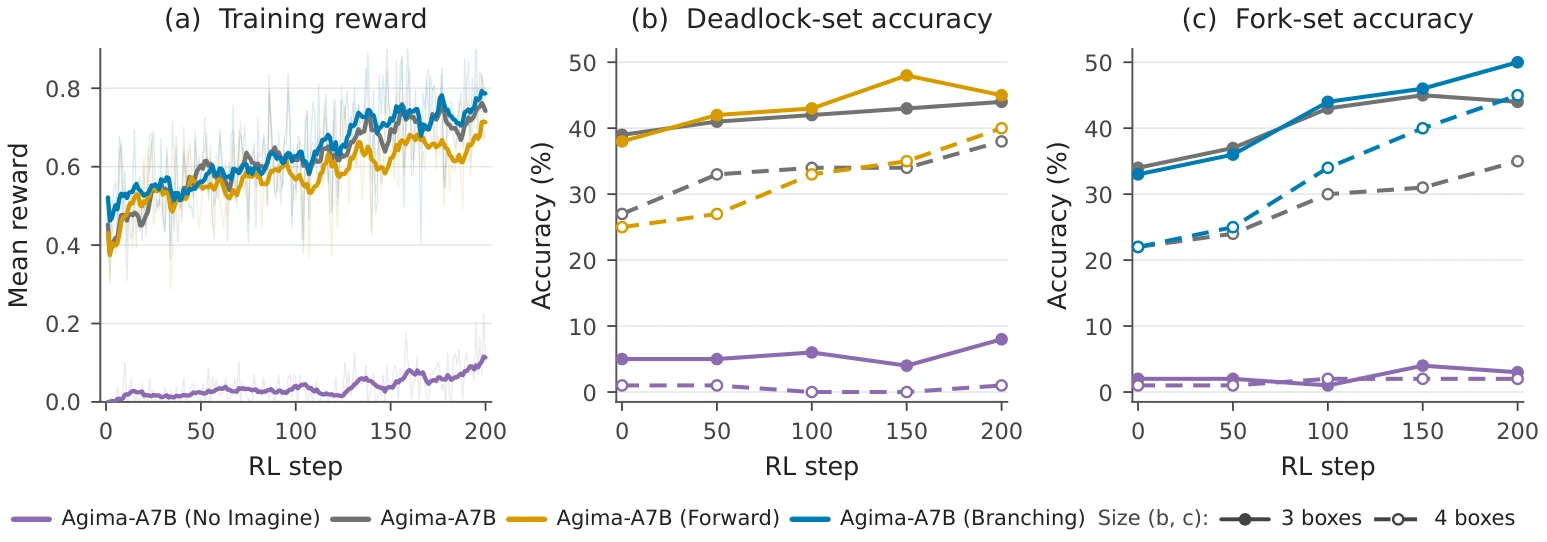
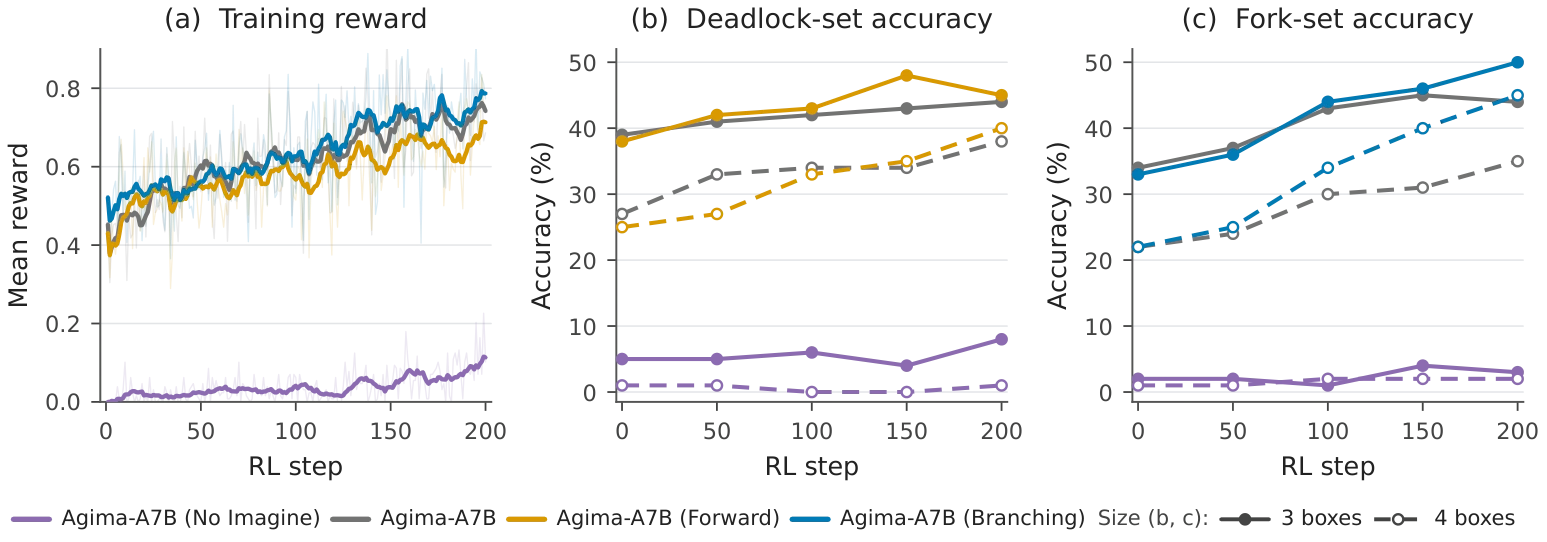
Animate environments and rollout explorer; match RL chart backgrounds
Environments now show ground-truth train and test rollouts as GIFs for all
four tasks. The rollout explorer plays the paper's appendix episodes as
GIFs, imagined frames beside the ground truth, pausing when a real frame
arrives at each chunk boundary. RL charts get transparent backgrounds,
and the forward-thinking highlight now covers the shared o_{t+1} frame.

diff --git a/index.html b/index.html
@@ -179,12 +179,42 @@
         <div class="section-heading">
           <p class="eyebrow">Setup</p>
           <h2>Environments</h2>
-          <p>Four tasks with different dynamics. Agima trains on the easier setting and is tested on a harder one.</p>
+          <p>Four tasks with different dynamics. Agima trains on the easier setting (left) and is tested on a harder one it never saw (right). Each clip is a real environment rollout.</p>
         </div>
-        <figure class="wide-figure">
-          <img src="assets/images/fig2_environments_rollout.webp" width="2400" height="1239" loading="lazy" alt="Training and test states for Maze2D, Sokoban, Pacman and PushT, and an imagined Pacman rollout.">
-          <figcaption>(a) Training and test states: Maze2D mazes grow, Sokoban goes from two to four boxes, Pacman moves to 12×12 grids with more food, and PushT starts farther from the center. (b) Agima interleaves actions and predicted states, then executes the actions.</figcaption>
-        </figure>
+        <div class="env-grid">
+          <article class="env-card">
+            <h3>Maze2D</h3>
+            <p>Navigate to the red goal around walls.</p>
+            <div class="env-pair">
+              <figure><img src="assets/gifs/env/maze2d_train.gif" width="256" height="282" loading="lazy" alt="Maze2D training episode, ground-truth rollout."><figcaption>Train: 11×11 maze</figcaption></figure>
+              <figure><img src="assets/gifs/env/maze2d_test.gif" width="256" height="282" loading="lazy" alt="Maze2D test episode, ground-truth rollout."><figcaption>Test: larger maze</figcaption></figure>
+            </div>
+          </article>
+          <article class="env-card">
+            <h3>Sokoban</h3>
+            <p>Push every box onto a goal; a wrong push can be permanent.</p>
+            <div class="env-pair">
+              <figure><img src="assets/gifs/env/sokoban_train.gif" width="256" height="282" loading="lazy" alt="Sokoban training episode, ground-truth rollout."><figcaption>Train: two boxes</figcaption></figure>
+              <figure><img src="assets/gifs/env/sokoban_test.gif" width="256" height="282" loading="lazy" alt="Sokoban test episode, ground-truth rollout."><figcaption>Test: four boxes</figcaption></figure>
+            </div>
+          </article>
+          <article class="env-card">
+            <h3>Pacman</h3>
+            <p>Eat all food while a ghost chases after every move.</p>
+            <div class="env-pair">
+              <figure><img src="assets/gifs/env/pacman_train.gif" width="256" height="282" loading="lazy" alt="Pacman training episode, ground-truth rollout."><figcaption>Train: 9×9, 8 food</figcaption></figure>
+              <figure><img src="assets/gifs/env/pacman_test.gif" width="256" height="282" loading="lazy" alt="Pacman test episode, ground-truth rollout."><figcaption>Test: 12×12, 12 food, closer ghost</figcaption></figure>
+            </div>
+          </article>
+          <article class="env-card">
+            <h3>PushT</h3>
+            <p>Push the gray T onto the green target with continuous moves.</p>
+            <div class="env-pair">
+              <figure><img src="assets/gifs/env/pusht_train.gif" width="256" height="282" loading="lazy" alt="PushT training episode, ground-truth rollout."><figcaption>Train: starts near the center</figcaption></figure>
+              <figure><img src="assets/gifs/env/pusht_test.gif" width="256" height="282" loading="lazy" alt="PushT test episode, ground-truth rollout."><figcaption>Test: starts far from the center</figcaption></figure>
+            </div>
+          </article>
+        </div>
         <div class="k-explainer">
           <h3>Action chunks K</h3>
           <p>K is how many actions Agima commits before it sees the real board again. In between, it plans from its own imagined frames. K = 1 is fully reactive; K = ∞ imagines the whole episode from a single frame.</p>
@@ -308,7 +338,7 @@
             <h3>RL improves held-out planning</h3>
             <p>Every imagination-based model improves, including on four-box puzzles never seen during RL. The action-only model raises its training reward but stays near zero on the test sets.</p>
           </div>
-          <figure><img src="assets/images/fig4_rl_curves.webp" width="1547" height="542" loading="lazy" alt="RL training reward and held-out accuracy for four initializations."><figcaption>(a) Training reward. (b–c) Accuracy on Deadlock and Structural Fork; solid lines are three-box and dashed lines four-box.</figcaption></figure>
+          <figure><img class="chart-img" src="assets/images/fig4_rl_curves.webp" width="1547" height="542" loading="lazy" alt="RL training reward and held-out accuracy for four initializations."><figcaption>(a) Training reward. (b–c) Accuracy on Deadlock and Structural Fork; solid lines are three-box and dashed lines four-box.</figcaption></figure>
         </div>
         <div class="analysis-row">
           <div class="analysis-copy">
@@ -324,7 +354,7 @@
             <h3>Branching moves to critical decisions</h3>
             <p>Agima opens more branches per plan and places more of them where a single push would make the puzzle unsolvable.</p>
           </div>
-          <figure><img src="assets/images/fig6_adaptive_reasoning.webp" width="1921" height="507" loading="lazy" alt="Adaptive use of imagination across RL checkpoints."><figcaption>Forward thinking becomes failure-triggered; branching targets critical steps.</figcaption></figure>
+          <figure><img class="chart-img" src="assets/images/fig6_adaptive_reasoning.webp" width="1921" height="507" loading="lazy" alt="Adaptive use of imagination across RL checkpoints."><figcaption>Forward thinking becomes failure-triggered; branching targets critical steps.</figcaption></figure>
         </div>
       </div>
     </section>
@@ -334,7 +364,7 @@
         <div class="section-heading">
           <p class="eyebrow">Explorer</p>
           <h2>Rollout Explorer</h2>
-          <p>Full trajectories for every environment and K. A real frame arrives every K actions; the rest are imagined.</p>
+          <p>Agima on the hard test sets, from the paper's appendix episodes. Left is what Agima sees: its own imagined frames, until a real frame arrives every K actions (the pause). Right is the true environment at the same step.</p>
         </div>
         <div id="rollout-explorer"></div>
       </div>

diff --git a/assets/js/main.js b/assets/js/main.js
@@ -88,13 +88,6 @@
       ]
     }
   };
-  // Rollout explorer: pages rendered from the appendix trajectory figures.
-  var ROLLOUTS = {
-    maze2d: {label: "Maze2D", k: {"1": [["maze2d_k1_1", "0-17"]], "3": [["maze2d_k3_2", "0-15"], ["maze2d_k3_3", "15-27"]], "5": [["maze2d_k5_4", "0-23"]], "10": [["maze2d_k10_5", "0-21"]], "inf": [["maze2d_kinf_6", "0-13"]]}},
-    sokoban: {label: "Sokoban", k: {"1": [["sokoban_k1_1", "0-21"]], "3": [["sokoban_k3_2", "0-21"]], "5": [["sokoban_k5_3", "0-19"]], "10": [["sokoban_k10_4", "0-19"]], "inf": [["sokoban_kinf_5", "0-17"]]}},
-    pacman: {label: "Pacman", k: {"1": [["pacman_k1_1", "0-33"]], "3": [["pacman_k3_2", "0-20"], ["pacman_k3_3", "20-33"]], "5": [["pacman_k5_4", "0-20"], ["pacman_k5_5", "20-33"]], "10": [["pacman_k10_6", "0-20"], ["pacman_k10_7", "20-35"]], "inf": [["pacman_kinf_8", "0-15"], ["pacman_kinf_9", "15-27"]]}},
-    pusht: {label: "PushT", k: {"1": [["pusht_k1_1", "0-19"]], "3": [["pusht_k3_2", "0-18"]], "5": [["pusht_k5_3", "0-15"], ["pusht_k5_4", "15-27"]], "10": [["pusht_k10_5", "0-20"]], "inf": [["pusht_kinf_6", "0-15"], ["pusht_kinf_7", "15-28"]]}}
-  };
   var KLABEL = {"1": "1", "3": "3", "5": "5", "10": "10", "inf": "∞"};
   var FIG = "assets/images/";
 
@@ -212,26 +205,25 @@
     root.appendChild(grid);
   }
 
-  /* ---------- 3. rollout explorer ---------- */
+  /* ---------- 3. rollout explorer: one GIF per environment and K ---------- */
+  var EXPLORER_ENVS = [["maze2d", "Maze2D"], ["sokoban", "Sokoban"], ["pacman", "Pacman"], ["pusht", "PushT"]];
   function renderExplorer(root) {
     var state = {env: "sokoban", k: "5"};
     var controls = el("div", {class: "chart-controls explorer-controls"});
     root.appendChild(controls);
-    segmented(controls, "Environment", Object.keys(ROLLOUTS).map(function (e) { return [e, ROLLOUTS[e].label]; }), state.env, function (v) { state.env = v; draw(); });
+    segmented(controls, "Environment", EXPLORER_ENVS, state.env, function (v) { state.env = v; draw(); });
     segmented(controls, "Explorer K", [["1", "K = 1"], ["3", "K = 3"], ["5", "K = 5"], ["10", "K = 10"], ["inf", "K = ∞"]], state.k, function (v) { state.k = v; draw(); });
     var caption = el("p", {class: "chart-note"});
-    var frame = el("div", {class: "explorer-frame"});
-    root.appendChild(caption); root.appendChild(frame);
+    var img = el("img", {class: "explorer-gif", width: "530", height: "332", alt: ""});
+    root.appendChild(caption); root.appendChild(el("div", {class: "explorer-frame"}, [img]));
     function draw() {
-      var pages = ROLLOUTS[state.env].k[state.k];
-      var first = pages[0][1].split("-")[0], last = pages[pages.length - 1][1].split("-")[1];
-      caption.textContent = ROLLOUTS[state.env].label + ", K = " + KLABEL[state.k] + ": steps " + first + "–" + last +
-        (state.k === "1" ? ". Real observation after every action." : state.k === "inf" ? ". One real observation, then every frame is imagined." : ". A real observation every " + state.k + " actions; frames in between are imagined.");
-      frame.innerHTML = "";
-      pages.forEach(function (p) {
-        frame.appendChild(el("img", {src: FIG + "rollouts/" + p[0] + ".webp", loading: "lazy", decoding: "async",
-          alt: ROLLOUTS[state.env].label + " trajectory at K = " + KLABEL[state.k] + ", steps " + p[1]}));
-      });
+      var label = EXPLORER_ENVS.filter(function (e) { return e[0] === state.env; })[0][1];
+      caption.textContent = label + ", K = " + KLABEL[state.k] + ". " + (state.k === "1"
+        ? "A real frame after every action; nothing is imagined."
+        : state.k === "inf" ? "One real frame at the start; every later frame is imagined."
+        : "Imagined frames, then a real frame every " + state.k + " actions.");
+      img.src = FIG.replace("images/", "gifs/") + "rollout/" + state.env + "_k" + state.k + ".gif";
+      img.alt = label + " episode at K = " + KLABEL[state.k] + ": imagined frames next to the ground truth.";
     }
     draw();
   }
@@ -357,7 +349,7 @@
     var steps = [
       {name: "linear", box: {left: "50.4%", top: "0.3%", width: "49.3%", height: "24.2%"}},
       {name: "branch", box: {left: "0.6%", top: "27.8%", width: "52.6%", height: "53.2%"}},
-      {name: "forward", box: {left: "53.1%", top: "27.8%", width: "46.6%", height: "52.4%"}}
+      {name: "forward", box: {left: "45.2%", top: "27.8%", width: "54.5%", height: "53.2%"}}
     ];
     var reduce = window.matchMedia("(prefers-reduced-motion: reduce)").matches;
     var idx = 0, timer = null;

diff --git a/assets/css/styles.css b/assets/css/styles.css
@@ -619,3 +619,21 @@ img { height: auto; }
 .trap-card .key.far { color: var(--teal); font-weight: 700; }
 .trap-example-figure { margin: 0; }
 .trap-example-figure img { width: 100%; border: 1px solid var(--line); background: white; }
+
+/* RL charts: transparent background so they sit on the section color */
+.analysis-row figure img.chart-img { border: 0; background: transparent; }
+
+/* Environments: train / test clips */
+.env-grid { display: grid; grid-template-columns: repeat(2, minmax(0, 1fr)); border-top: 1px solid var(--ink); border-left: 1px solid var(--line); }
+.env-card { padding: 24px; border-right: 1px solid var(--line); border-bottom: 1px solid var(--line); background: white; }
+.env-card h3 { margin: 0 0 4px; font-family: Georgia, "Times New Roman", serif; font-size: 27px; font-weight: 500; line-height: 1.12; }
+.env-card > p { margin: 0 0 16px; color: var(--muted); font-size: 14px; }
+.env-pair { display: grid; grid-template-columns: repeat(2, minmax(0, 1fr)); gap: 14px; }
+.env-pair figure { margin: 0; }
+.env-pair img { width: 100%; border: 1px solid var(--line); }
+.env-pair figcaption { margin-top: 6px; font-weight: 700; color: var(--ink); }
+@media (max-width: 900px) { .env-grid { grid-template-columns: 1fr; } }
+
+/* Rollout explorer GIF */
+.explorer-frame { justify-items: center; }
+.explorer-gif { width: 100%; max-width: 760px; }
